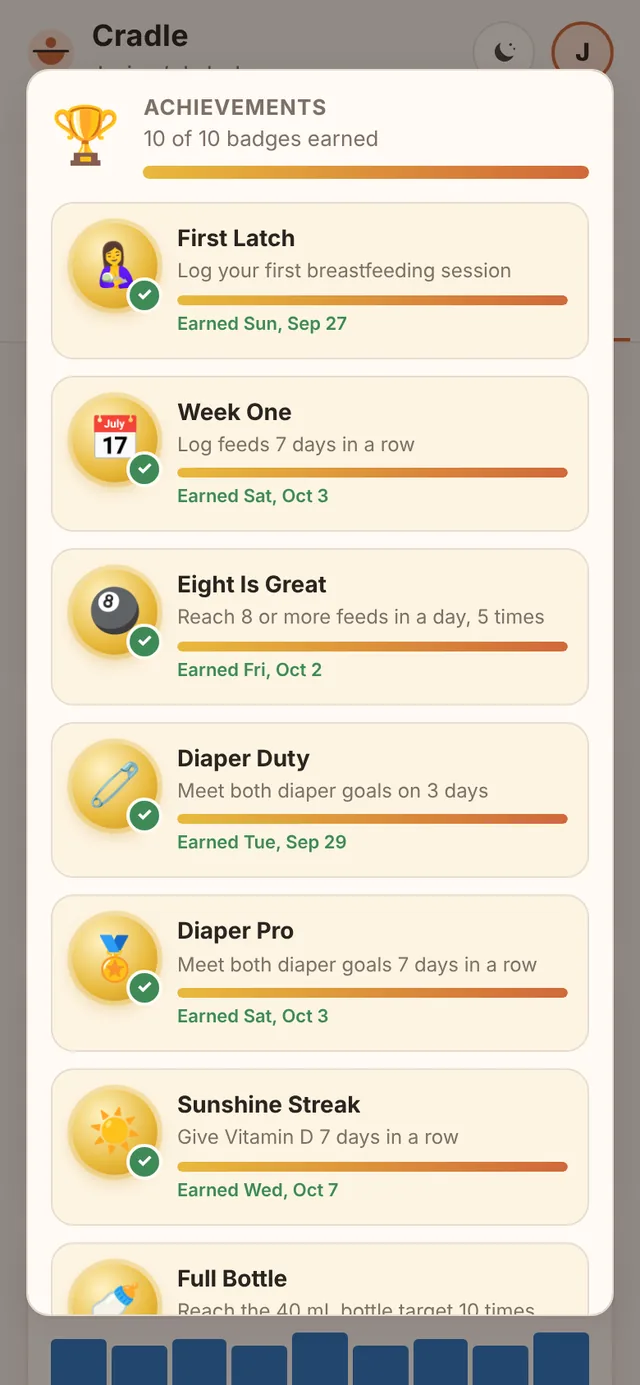
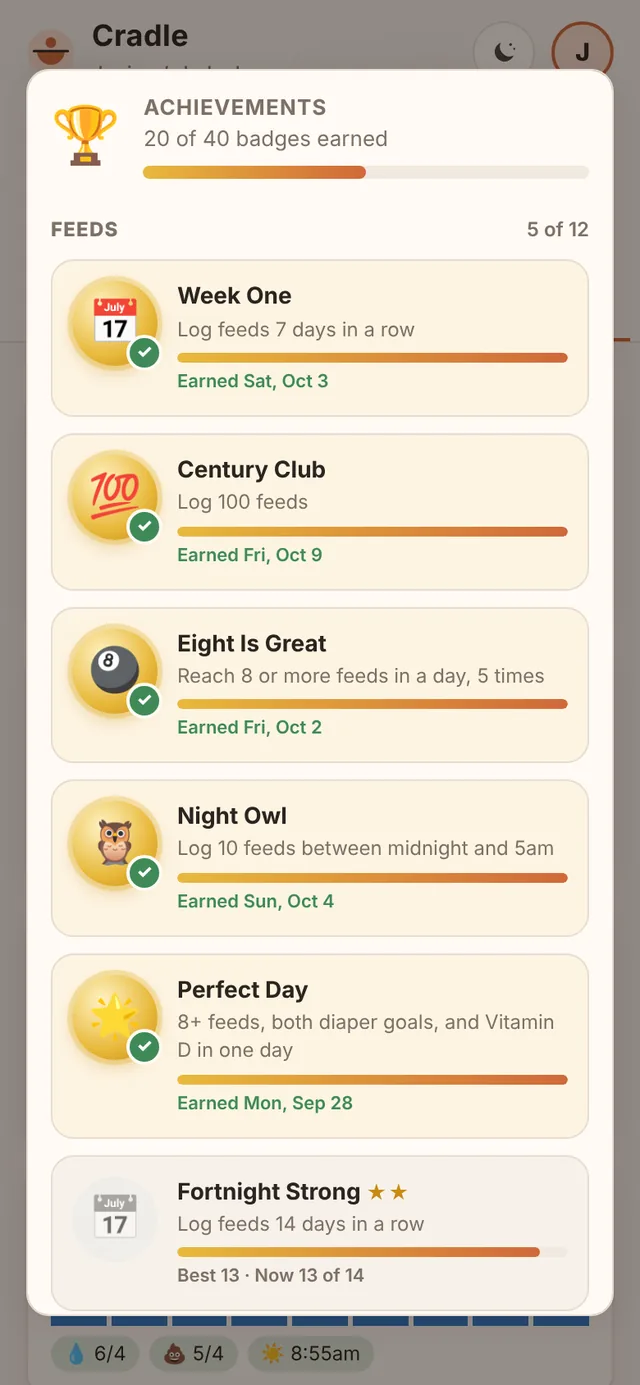
v1.15: doctor report fixes, Themes window, 40 achievements
Doctor report (audited against the log with independent code)
- Pumped averages over the days you pumped and says how many; days
  without pumping no longer count as zero
- Vitamin D counts only days since its start date (no more "10 of 9")
- Days before the birth date are left out of the table
- Nursing notes how many nursing feeds were timed when some weren't
- Daily rows were already correct
Dashboard: same pump and Vitamin D fixes

Themes
- One "Themes" item in the profile menu, showing the current theme,
  opens a window with Auto/Light/Dark and the four fun themes

Achievements: 10 -> 40
- 20 starred higher tiers of the originals (and of the new ones)
- New kinds: Century Club, Night Owl, Perfect Day, Note Taker, Liquid
  Gold, Splish Splash, Weigh In, Weighted Wonder, Back to Birth
  Weight, Two Weeks Old
- Grouped into seven topics with earned counts; existing badge ids
  are unchanged, so earned badges stay earned

Guide, About, CHANGELOG, Using Cradle, and the overview updated.

Claude-Session: https://claude.ai/code/session_01C2LP9XX3HMhgrsmSLqk1xr

Changed region(s): [[0.0625, 0.0931, 0.9375, 1.0]]

diff --git a/cradle.html b/cradle.html
@@ -120,8 +120,9 @@ nav.tabs button.on{color:var(--ink);border-color:var(--accent)}
 .dd .item{display:flex;align-items:center;gap:10px;width:100%;text-align:left;border:0;background:none;padding:8px 10px;border-radius:8px}
 .dd .item:hover{background:var(--panel2)}
 .dd .item.dim{opacity:.55}
-.tgrid{display:grid;grid-template-columns:1fr 1fr;gap:6px;margin:0 6px 6px}
-.tgrid .dalm{width:auto;margin:0;padding:7px 8px;font-size:12.5px;justify-content:flex-start}
+.tgrid{display:grid;grid-template-columns:1fr 1fr;gap:8px;margin:0}
+.tgrid .dalm{border-style:solid;width:auto;margin:0;padding:10px 12px;font-size:14px;flex-direction:column;align-items:flex-start;gap:2px;white-space:normal}
+.tgrid .dalm small{font-size:11.5px;font-weight:500;opacity:.75}
 .tnote{display:block;text-transform:none;letter-spacing:0;font-weight:500;font-size:11px;margin-top:2px}
 .dmlist{display:grid;gap:8px;margin:10px 0 4px}
 .dmi{display:flex;gap:12px;align-items:flex-start;text-align:left;width:100%;border:1px solid var(--line);background:var(--panel);border-radius:12px;padding:10px 12px}
@@ -340,6 +341,9 @@ body.night-on .toast{background:#2c2621;color:#d9c3a5}
 .ach .sub{font-size:12px}
 .ach .achbar{height:6px}
 .ach .meta{font-size:11px;color:var(--muted);margin-top:4px;font-weight:600}
+.ach .tier{color:#c98a12;font-size:12px;letter-spacing:1px}
+.achcat{grid-column:1/-1;display:flex;justify-content:space-between;align-items:baseline;margin-top:8px;font-size:12px;font-weight:800;text-transform:uppercase;letter-spacing:.6px;color:var(--muted)}
+.achcat span{font-weight:600;text-transform:none;letter-spacing:0}
 .ach.on .meta{color:var(--good)}
 .toast.gold{background:linear-gradient(90deg,#c98a12,#d0683a);color:#fff;font-weight:700}
 .achchip{margin-left:auto;font-size:11px;font-weight:700;color:var(--muted)}
@@ -610,18 +614,8 @@ body.night-on .toast{background:#2c2621;color:#d9c3a5}
       <button class="avatar" id="menuBtn" title="Profile" aria-haspopup="true"></button>
       <div class="dd" id="dd">
         <div class="ddhead"><b id="ddName">Cradle</b><span class="sub" id="ddSub">Baby log</span><div class="sub" style="margin-top:4px">☁ <span id="ddSync">Not signed in</span></div></div>
-        <div class="ddlabel">Appearance</div>
-        <div class="seg" id="themeSeg">
-          <button data-theme="auto">Auto</button><button data-theme="light">Light</button><button data-theme="dark">Dark</button>
-        </div>
-        <div class="ddlabel">Fun themes <span class="tnote">Dalmatian is experimental; the rest are seasonal</span></div>
-        <div class="tgrid">
-          <button class="dalm" data-theme="dalmatian" title="Dalmatian mode (experimental)">🐾 Dalmatian</button>
-          <button class="dalm hallo" data-theme="halloween" title="Halloween mode (seasonal)">🎃 Halloween</button>
-          <button class="dalm" data-theme="thanksgiving" title="Thanksgiving mode (seasonal)">🦃 Thanksgiving</button>
-          <button class="dalm" data-theme="christmas" title="Christmas mode (seasonal)">🎄 Christmas</button>
-        </div>
         <hr>
+        <button class="item" data-act="themes"><span>🎨</span>Themes<span class="achchip" id="themeChip"></span></button>
         <button class="item" data-act="ach"><span>🏆</span>Achievements<span class="achchip" id="achChip"></span></button>
         <button class="item" data-act="learn"><span>🎓</span>Learning center</button>
         <button class="item" data-act="fun"><span>🎮</span>Fun center</button>
@@ -817,10 +811,10 @@ body.night-on .toast{background:#2c2621;color:#d9c3a5}
       <div class="card"><div class="ico">🩺</div><h3>Doctor report</h3><p>On the Dashboard, <b>🩺 Doctor report</b> prints one page for appointments: weight against birth weight, daily feeds, nursing minutes with the left and right split, bottle and pump volumes, diapers against goals, Vitamin D, baths, weighted feeds, your day notes, and lines for questions. It covers the 7 or 14 days shown on the Dashboard.</p></div>
       <div class="card"><div class="ico">🌙</div><h3>Night shift</h3><p>Tap the <b>Night shift</b> tab for a dim, low-glare screen with huge buttons for one-handed night feeds. The three dots at the top switch colors: Warm, Moonlight, or Red. <b>Start feed</b> logs the time and starts the timer. Then tap L or R (with both on, a slider splits the time between sides), adjust the bottle by 5 mL, mark wet, stool, or Vitamin D, and tap <b>Done</b>. Everything saves as you go. Between feeds, <b>🧷 Diaper only</b> and <b>🛁 Bath</b> log those with the current time.</p></div>
       <div class="card"><div class="ico">🌌</div><h3>Calm screen</h3><p>A slow, soothing screensaver with the time, time since the last feed, and the next feed due. Open it with the moon button at the top right, next to your profile. Tap the screen to show controls: spa music, ocean, rain, or white noise, volume, and whether the clock sits in the center or the corner. The feed alarm still works here. When Cradle is installed as an app, the screen stays on while Calm or Night shift is open. Opened as a file, your phone may still turn the screen off on its own timer.</p></div>
-      <div class="card"><div class="ico">🏆</div><h3>Achievements</h3><p>Ten badges based on your goals, like Sunshine Streak for 7 days of Vitamin D and Diaper Pro for 7 days of diaper goals. Open them from the profile menu to see progress. Streaks aren’t broken by a day that isn’t over yet.</p></div>
+      <div class="card"><div class="ico">🏆</div><h3>Achievements</h3><p>Forty badges in seven groups (Feeds, Nursing, Bottle and pump, Diapers, Vitamin D, Baths, and Weight and milestones), like Sunshine Streak for 7 days of Vitamin D, Night Owl for 10 feeds between midnight and 5am, and Perfect Day. Stars mark the higher tiers of a badge. Open them from the profile menu to see progress. Streaks aren’t broken by a day that isn’t over yet.</p></div>
       <div class="card"><div class="ico">🎓</div><h3>Learning center</h3><p>In the profile menu. <b>High-contrast cards</b> are five bold black-and-white designs (Bullseye, Checkerboard, Zigzag, Spiral, and Smile) for calm, awake moments with your baby. Tap one to show it full screen, then swipe or tap the sides to change cards. <b>Invert</b> swaps black and white, and <b>Auto</b> changes cards every 10 seconds. Hold the phone about 8 to 12 inches (20 to 30 cm) away, and stop when your baby looks away or fusses. The screen stays on while a card is showing.</p></div>
       <div class="card"><div class="ico">🎮</div><h3>Fun center</h3><p>In the profile menu: <b>Bottle Catch</b>, a two-minute, one-thumb game. Drag anywhere to move the basket. Bottles are +10, golden bottles +50, and catching in a row builds up to ×4. Safety pins cost a heart (you have 3), and the pacifier slows everything for 5 seconds. It pauses by itself if you switch away or the feed alarm rings. Sound is off to start; Buzz and Sound are on the start screen. Your first posted score asks for 3 initials, which you can change on the board. <b>High scores</b> has three boards: Everyone (each person’s best across this Cradle), Our family, and My best. Only initials and scores are shown. Scores from rounds played offline post when you’re back online.</p></div>
-      <div class="card"><div class="ico">👤</div><h3>Profile menu</h3><p>The round button at the top right holds Appearance (Auto, Light, or Dark, plus fun themes: Dalmatian, Halloween, Thanksgiving, and Christmas), Achievements, Learning center, Fun center, Weights, Settings, <b>Data management</b> (export, import, print, erase all data, and sign out and remove from this phone), this Guide, About, Family, Change password, and Sign out. Settings is where you set the baby’s name, birth date, Vitamin D start date, feed interval, and goals. The moon button next to it opens Calm.</p></div>
+      <div class="card"><div class="ico">👤</div><h3>Profile menu</h3><p>The round button at the top right holds <b>Themes</b> (Auto, Light, or Dark, plus fun themes: Dalmatian, Halloween, Thanksgiving, and Christmas), Achievements, Learning center, Fun center, Weights, Settings, <b>Data management</b> (export, import, print, erase all data, and sign out and remove from this phone), this Guide, About, Family, Change password, and Sign out. Settings is where you set the baby’s name, birth date, Vitamin D start date, feed interval, and goals. The moon button next to it opens Calm.</p></div>
     </div>
     <p class="disc">This tracker is for keeping records only. Volumes, goals, and supplements should follow your pediatrician or lactation consultant. If you're worried about feeding, diapers, or weight gain, call your baby's doctor.</p>
   </section>
@@ -1061,6 +1055,26 @@ body.night-on .toast{background:#2c2621;color:#d9c3a5}
   </div>
 </div>
 
+<div class="modal" id="themeModal">
+  <div class="card">
+    <h3>Themes</h3>
+    <p class="sub" style="margin:0">Each phone keeps its own theme.</p>
+    <div class="ddlabel" style="padding-left:0;margin-top:10px">Everyday</div>
+    <div class="seg" id="themeSeg" style="margin:0">
+      <button data-theme="auto">Auto</button><button data-theme="light">Light</button><button data-theme="dark">Dark</button>
+    </div>
+    <div class="sub" style="margin-top:6px">Auto follows your phone’s light or dark setting.</div>
+    <div class="ddlabel" style="padding-left:0;margin-top:14px">Fun themes</div>
+    <div class="tgrid">
+      <button class="dalm" data-theme="dalmatian"><b>🐾 Dalmatian</b><small>Spots everywhere · Experimental</small></button>
+      <button class="dalm hallo" data-theme="halloween"><b>🎃 Halloween</b><small>Night sky and bats · Seasonal</small></button>
+      <button class="dalm" data-theme="thanksgiving"><b>🦃 Thanksgiving</b><small>Maple and leaves · Seasonal</small></button>
+      <button class="dalm" data-theme="christmas"><b>🎄 Christmas</b><small>Snow and candy cane · Seasonal</small></button>
+    </div>
+    <div class="mrow"><button class="ghost" data-close>Done</button></div>
+  </div>
+</div>
+
 <div class="modal" id="dataModal">
   <div class="card">
     <h3>Data management</h3>
@@ -1079,14 +1093,16 @@ body.night-on .toast{background:#2c2621;color:#d9c3a5}
 <div class="modal" id="aboutModal">
   <div class="card">
     <h3>About Cradle</h3>
-    <p style="margin:0 0 8px"><b>Cradle v1.14</b><br><span class="sub">A baby log that works offline and syncs between family phones through your own Supabase project. No external libraries.</span></p>
+    <p style="margin:0 0 8px"><b>Cradle v1.15</b><br><span class="sub">A baby log that works offline and syncs between family phones through your own Supabase project. No external libraries.</span></p>
     <p class="sub" style="margin:0 0 8px;padding:10px 12px;border-radius:12px;background:var(--accent-soft)"><b>Not medical advice.</b> Cradle is a notebook. Goals in the app are placeholders, so follow your pediatrician or care team, and call them if you’re worried about your baby.<br><br><b>Built with AI.</b> Cradle was built with help from Claude, an AI model by Anthropic. It has been tested but not independently reviewed, so keep backups with Export data (in Data management).</p>
     <div class="donate hidden" id="donateBox"><span style="font-size:22px">☕</span><div><b>Enjoying Cradle?</b><div class="sub">It’s free. If it helps your family, you can buy me a coffee.</div></div><a class="primary" id="donateLink" href="#" target="_blank" rel="noopener noreferrer">Buy me a coffee</a></div>
     <h3 style="margin-top:14px">Changelog</h3>
+    <b>v1.15</b>
+    <ul class="cl"><li>40 achievements (up from 10), grouped by topic: higher tiers of the originals (★★ and ★★★) and new ones like Night Owl, Perfect Day, Liquid Gold, Splish Splash, Back to Birth Weight, and One Month Old</li><li>Themes now open from one <b>🎨 Themes</b> item in the profile menu</li><li>Doctor report: pumping is averaged over the days you pumped, Vitamin D only counts days since its start date, days before birth are left out, and nursing shows how many feeds were timed</li><li>Dashboard: the same fixes for pumping and Vitamin D</li></ul>
     <b>v1.14</b>
     <ul class="cl"><li>Dashboard filters: chips under Print (All, Feeds, Bottle &amp; pump, Diapers, Vitamin D, Weight, Baths) show just that topic’s cards and insights</li><li>Cradle remembers your filter, and Print prints what’s showing</li></ul>
     <b>v1.13</b>
-    <ul class="cl"><li>🦃 Thanksgiving mode: warm cream and maple colors, falling leaves and acorns, and an acorn cap on the logo</li><li>🎄 Christmas mode: snowy white with red and evergreen, falling snowflakes, a candy-cane stripe under the header, and a Santa hat on the logo</li><li>Both are in Appearance under Fun themes, next to Halloween, and like every theme they’re just for this phone</li><li>A shorter profile menu: <b>Data management</b> holds export, import, print, erase all data, and sign out and remove from this phone. Fun themes sit in a small grid.</li><li>☕ An optional Buy me a coffee button, when your Cradle has a donation link set</li></ul>
+    <ul class="cl"><li>🦃 Thanksgiving mode: warm cream and maple colors, falling leaves and acorns, and an acorn cap on the logo</li><li>🎄 Christmas mode: snowy white with red and evergreen, falling snowflakes, a candy-cane stripe under the header, and a Santa hat on the logo</li><li>Both are in Themes, next to Halloween, and like every theme they’re just for this phone</li><li>A shorter profile menu: <b>Data management</b> holds export, import, print, erase all data, and sign out and remove from this phone. Fun themes sit in a small grid.</li><li>☕ An optional Buy me a coffee button, when your Cradle has a donation link set</li></ul>
     <b>v1.12</b>
     <ul class="cl"><li>New tagline: <b>Family baby log</b> on the splash and sign-in screens, and <b>Baby log</b> everywhere else, since Cradle works however your baby is fed</li><li>🎃 Halloween mode in Appearance, under Dalmatian: a dark night theme with bats, pumpkin orange, and a jack-o’-lantern logo. It’s just for this phone.</li></ul>
     <b>v1.11</b>
@@ -1122,7 +1138,7 @@ body.night-on .toast{background:#2c2621;color:#d9c3a5}
 <script type="application/json" id="baseData">{}</script>
 <script>
 (function(){
-const VERSION='1.14';
+const VERSION='1.15';
 const LS='cradle-feeding-v1';
 const $=s=>document.querySelector(s);
 const $$=s=>document.querySelectorAll(s);
@@ -1199,7 +1215,8 @@ function applyTheme(){
   if(t==='auto')document.documentElement.removeAttribute('data-theme');
   else document.documentElement.setAttribute('data-theme',t);
   $$('#themeSeg button').forEach(b=>b.classList.toggle('on',b.dataset.theme===t));
-  $$('#dd .dalm').forEach(b=>b.classList.toggle('on',b.dataset.theme===t));
+  $$('#themeModal .dalm').forEach(b=>b.classList.toggle('on',b.dataset.theme===t));
+  const tc=$('#themeChip');if(tc)tc.textContent={auto:'Auto',light:'Light',dark:'Dark',dalmatian:'🐾 Dalmatian',halloween:'🎃 Halloween',thanksgiving:'🦃 Thanksgiving',christmas:'🎄 Christmas'}[t]||'';
 }
 function renderProfile(){
   const n=babyName();
@@ -1212,14 +1229,15 @@ function renderProfile(){
 $('#menuBtn').onclick=e=>{e.stopPropagation();$('#menu').classList.toggle('open')};
 document.addEventListener('click',e=>{if(!e.target.closest('#menu'))$('#menu').classList.remove('open')});
 $('#dd').addEventListener('click',e=>{
-  const tb=e.target.closest('#dd [data-theme]');
-  if(tb){S.settings.theme=tb.dataset.theme;applyTheme();save();if(tab==='dash')renderDash();const hi={halloween:'🎃 Happy Halloween!',thanksgiving:'🦃 Happy Thanksgiving!',christmas:'🎄 Merry Christmas!'}[tb.dataset.theme];if(hi)toast(hi+' Switch back anytime under Appearance.');return}
   const a=e.target.closest('[data-act]');if(!a)return;$('#menu').classList.remove('open');
   ACTS[a.dataset.act]();
 });
 const ACTS={settings:openSettings,export:openExport,import:openImport,erase:eraseAll,ach:openAch,print:printTab,
-    data:()=>$('#dataModal').classList.add('open'),donate:()=>{const u=donateUrl();if(u)window.open(u,'_blank','noopener')},
+    data:()=>$('#dataModal').classList.add('open'),themes:()=>{applyTheme();$('#themeModal').classList.add('open')},donate:()=>{const u=donateUrl();if(u)window.open(u,'_blank','noopener')},
     help:()=>{tab='guide';renderAll();scrollTo(0,0)},about:()=>$('#aboutModal').classList.add('open'),install:doInstall,learn:openLearn,fun:openFun,family:openFamily,password:openPassword,signout:async()=>{if(await ask('Sign out of Cradle on this phone? Your log stays saved in your account, and stays on this phone until someone signs in. To clear it from this phone too, use Sign out and remove from this phone.','Sign out'))clSignOut()},wipe:signOutWipe};
+$('#themeModal').addEventListener('click',e=>{const tb=e.target.closest('[data-theme]');if(!tb)return;
+  S.settings.theme=tb.dataset.theme;applyTheme();save();if(tab==='dash')renderDash();
+  const hi={halloween:'🎃 Happy Halloween!',thanksgiving:'🦃 Happy Thanksgiving!',christmas:'🎄 Merry Christmas!'}[tb.dataset.theme];if(hi)toast(hi+' Switch back anytime in Themes.')});
 $('#dataModal').addEventListener('click',e=>{const b=e.target.closest('[data-dm]');if(!b)return;$('#dataModal').classList.remove('open');ACTS[b.dataset.dm]()});
 // Optional donation link, baked in at build time from CRADLE_DONATE_URL
 function donateUrl(){try{const u=(JSON.parse(document.getElementById('siteConfig').textContent)||{}).donate||'';return /^https:\/\/[^\s"<>]+$/.test(u)?u:''}catch(e){return ''}}
@@ -1556,12 +1574,12 @@ function renderDash(){
   const todayK=key(new Date()),todayX=L.find(x=>x.k===todayK&&x.t.n>0),done=logged.filter(x=>x.k!==todayK),base=done.length?done:logged;
   const ld=base.length||1,allFeeds=logged.flatMap(x=>x.d.feeds.filter(isFeed)),baseFeeds=base.flatMap(x=>x.d.feeds.filter(isFeed)),totBd=base.reduce((t,x)=>t+x.t.bottle,0);
   const dl=done.length?'completed day'+(done.length>1?'s':''):'day so far';
-  const bottled=allFeeds.filter(f=>num(f.bottle)!=null),totB=logged.reduce((t,x)=>t+x.t.bottle,0),pDays=logged.filter(x=>x.d.feeds.some(f=>num(f.pump)!=null)),totP=pDays.reduce((t,x)=>t+x.t.pump,0),totBp=pDays.reduce((t,x)=>t+x.t.bottle,0);
+  const bottled=allFeeds.filter(f=>num(f.bottle)!=null),totB=logged.reduce((t,x)=>t+x.t.bottle,0),pDays=base.filter(x=>x.d.feeds.some(f=>num(f.pump)!=null)),totP=pDays.reduce((t,x)=>t+x.t.pump,0),totBp=pDays.reduce((t,x)=>t+x.t.bottle,0);
   const hit=bottled.filter(f=>num(f.bottle)>=st.target).length;
   const gaps=L.flatMap(x=>per[x.k]),avgGap=gaps.length?gaps.reduce((t,y)=>t+y.g,0)/gaps.length:0;
   let longest=null;L.forEach(x=>per[x.k].forEach(y=>{if(!longest||y.g>longest.g)longest={...y,dt:x.dt}}));
   const wetMet=done.filter(x=>x.t.wet>=x.g.wet).length,stoolMet=done.filter(x=>x.t.stool>=x.g.stool).length;
-  const vitDays=L.filter(x=>x.v.given).length,vDue=L.filter(x=>vitDue(x.k)&&(x.k!==todayK||x.v.given)).length;
+  const vitDays=L.filter(x=>x.v.given&&vitDue(x.k)).length,vDue=L.filter(x=>vitDue(x.k)&&(x.k!==todayK||x.v.given)).length;
   let streak=0;for(let i=n-1;i>=0;i--){if(!vitDue(L[i].k))break;if(L[i].v.given)streak++;else if(!(i===n-1&&L[i].k===key(new Date())))break}
   const vtimes=L.filter(x=>x.v.time).map(x=>{const[h,m]=x.v.time.split(':').map(Number);return h*60+m}).sort((a,b)=>a-b);
   const usual=vtimes.length>=3?vtimes[Math.floor(vtimes.length/2)]:null;
@@ -2108,7 +2126,9 @@ setInterval(checkAlarm,15000);
 /* ================= Doctor report ================= */
 let printMode=null;
 function buildReport(){
-  const L=rangeDays(),st=S.settings,ws=weightStats(),g0=goals(key(new Date()));
+  const L0=rangeDays(),st=S.settings,ws=weightStats(),g0=goals(key(new Date()));
+  // skip days before the birth date when the range reaches back that far
+  const L=st.birthDate&&L0.some(x=>x.k>=st.birthDate)?L0.filter(x=>x.k>=st.birthDate):L0;
   const rows=L.map(x=>{const y=dayDetail(x.k),nm=y.fs.reduce((a,f)=>a+(num(f.mins)||0),0);return {x,y,nm}});
   const done=rows.filter(r=>r.y.t.n>0&&!tdy(r.x.k)),nd=done.length||1;
   const avg=f=>done.length?(done.reduce((a,r)=>a+f(r),0)/nd):0;
@@ -2123,7 +2143,7 @@ function buildReport(){
   <h3 style="margin:12px 0 4px;font-size:14px">Weight</h3>
   ${ws?`<div>Birth: <b>${ws.bw>0?fmtW(ws.bw):'not set'}</b> · Latest: <b>${fmtW(ws.latest.g)}</b> (${dlong(parseK(ws.latest.date))}, ${ws.latest.src})${ws.pct!=null?' · <b>'+(ws.pct>=0?'+':'')+ws.pct.toFixed(1)+'%</b> vs birth':''}${ws.lowest?' · Lowest: '+fmtW(ws.lowest.g)+(ws.lowPct!=null?' ('+ws.lowPct.toFixed(1)+'%)':''):''}${ws.bw>0?' · Back to birth weight: <b>'+(ws.back?dlong(parseK(ws.back.date)):'not yet')+'</b>':''}${ws.rate!=null?' · Gain since lowest: '+fmtDW(ws.rate)+'/day':''}</div>`:'<div style="color:#555">No weights logged.</div>'}
   <h3 style="margin:12px 0 4px;font-size:14px">Averages over ${done.length} completed day${done.length===1?'':'s'}</h3>
-  <div>Feeds/day: <b>${avg(r=>r.y.t.n).toFixed(1)}</b> · Nursing: <b>${Math.round(avg(r=>r.nm))} min/day</b>${(()=>{const st=sideTotals(done.flatMap(r=>r.y.fs)),tt=st.L+st.R;return tt?' (left '+Math.round(st.L/tt*100)+'%, right '+(100-Math.round(st.L/tt*100))+'%)':''})()} · Bottle: <b>${Math.round(avg(r=>r.y.t.bottle))} mL/day</b> · Pumped: <b>${rows.some(r=>r.y.d.feeds.some(f=>num(f.pump)!=null))?Math.round(avg(r=>r.y.t.pump))+' mL/day':'not tracked'}</b> · Wet/day: <b>${avg(r=>r.y.t.wet).toFixed(1)}</b> · Stool/day: <b>${avg(r=>r.y.t.stool).toFixed(1)}</b> · Vitamin D: <b>${L.filter(x=>x.v.given).length} of ${L.filter(x=>vitDue(x.k)&&(!tdy(x.k)||x.v.given)).length} days</b> · Baths: <b>${(()=>{const c=L.reduce((a,x)=>a+bathsOf(x.d).length,0),lb=lastBath(L[L.length-1].k);return c+(lb?', last '+dlong(parseK(lb.k))+' ('+bathName(lb.f).toLowerCase()+')':'')})()}</b></div>
+  <div>Feeds/day: <b>${avg(r=>r.y.t.n).toFixed(1)}</b> · Nursing: <b>${Math.round(avg(r=>r.nm))} min/day</b>${(()=>{const st=sideTotals(done.flatMap(r=>r.y.fs)),tt=st.L+st.R;return tt?' (left '+Math.round(st.L/tt*100)+'%, right '+(100-Math.round(st.L/tt*100))+'%)':''})()}${(()=>{const fs=done.flatMap(r=>r.y.fs),nur=fs.filter(f=>f.left||f.right||num(f.mins)>0),tm=nur.filter(f=>num(f.mins)>0).length;return nur.length&&tm<nur.length?', timed on '+tm+' of '+nur.length+' nursing feeds':''})()} · Bottle: <b>${Math.round(avg(r=>r.y.t.bottle))} mL/day</b> · Pumped: <b>${(()=>{const pd=done.filter(r=>r.y.d.feeds.some(f=>num(f.pump)!=null));return pd.length?Math.round(pd.reduce((a,r)=>a+r.y.t.pump,0)/pd.length)+' mL/day</b> ('+(pd.length===done.length?'every day':'on '+pd.length+' day'+(pd.length>1?'s':'')+' with pumping')+')<b>':'not tracked'})()}</b> · Wet/day: <b>${avg(r=>r.y.t.wet).toFixed(1)}</b> · Stool/day: <b>${avg(r=>r.y.t.stool).toFixed(1)}</b> · Vitamin D: <b>${L.filter(x=>x.v.given&&vitDue(x.k)&&(!tdy(x.k)||x.v.given)).length} of ${L.filter(x=>vitDue(x.k)&&(!tdy(x.k)||x.v.given)).length} days</b> · Baths: <b>${(()=>{const c=L.reduce((a,x)=>a+bathsOf(x.d).length,0),lb=lastBath(L[L.length-1].k);return c+(lb?', last '+dlong(parseK(lb.k))+' ('+bathName(lb.f).toLowerCase()+')':'')})()}</b></div>
   <table style="width:100%;border-collapse:collapse;margin-top:10px"><tr><th ${th}>Date</th><th ${th}>Day</th><th ${th}>Feeds</th><th ${th}>Nursing min</th><th ${th}>Bottle mL</th><th ${th}>Pump mL</th><th ${th}>Wet / goal</th><th ${th}>Stool / goal</th><th ${th}>Vit D</th><th ${th}>Bath</th><th ${th}>Longest gap</th></tr>
   ${rows.map(({x,y,nm})=>`<tr><td ${td.replace('right','left')}>${dlong(x.dt)}${tdy(x.k)?' (so far)':''}</td><td ${td}>${y.g.dol!=null&&y.g.dol>=0?y.g.dol:''}</td><td ${td}>${y.t.n}</td><td ${td}>${nm||''}</td><td ${td}>${Math.round(y.t.bottle)}</td><td ${td}>${y.d.feeds.some(f=>num(f.pump)!=null)?Math.round(y.t.pump):''}</td><td ${td}>${y.t.wet} / ${y.g.wet}</td><td ${td}>${y.t.stool} / ${y.g.stool}</td><td ${td.replace('right','center')}>${y.v.given?'✓'+(y.v.time?' '+fmt12(y.v.time):''):vitDue(x.k)?'':'n/a'}</td><td ${td.replace('right','center')}>${bathsOf(y.d).map(f=>f.bath==='sponge'?'Sponge':f.bath==='tub'?'Tub':'✓').join(', ')}</td><td ${td}>${y.lg?hm(y.lg):''}</td></tr>`).join('')}</table>
   ${wfs.length?`<h3 style="margin:12px 0 4px;font-size:14px">Weighted feeds</h3><table style="border-collapse:collapse"><tr><th ${th}>Date</th><th ${th}>Time</th><th ${th}>Breast</th><th ${th}>Before</th><th ${th}>After</th><th ${th}>Transfer</th></tr>${wfs.map(({k,f})=>`<tr><td ${td.replace('right','left')}>${dlong(parseK(k))}</td><td ${td}>${fmt12(f.time)}</td><td ${td}>${[f.left?'L':'',f.right?'R':''].filter(Boolean).join('+')}${f.mins?' '+f.mins+' min':''}</td><td ${td}>${f.wPre?fmtW(f.wPre):''}</td><td ${td}>${f.wPost?fmtW(f.wPost):''}</td><td ${td}>${num(f.wPre)>0&&num(f.wPost)>0?Math.round(f.wPost-f.wPre)+' mL':''}</td></tr>`).join('')}</table>`:''}
@@ -2903,43 +2923,94 @@ $('#funPlay').onclick=gOpen;
 $('#funScores').onclick=()=>{gOpen();gPrev='start';gState='board';gPanel()};
 
 /* Achievements */
+// kind: count (cumulative), max (best single value), streak (days in a row), date (a one-time moment)
 const ACH=[
-  {id:'latch',icon:'🤱',name:'First Latch',desc:'Log your first breastfeeding session',goal:1},
-  {id:'week',icon:'📅',name:'Week One',desc:'Log feeds 7 days in a row',goal:7,streak:true},
-  {id:'eight',icon:'🎱',name:'Eight Is Great',desc:'Reach 8 or more feeds in a day, 5 times',goal:5},
-  {id:'duty',icon:'🧷',name:'Diaper Duty',desc:'Meet both diaper goals on 3 days',goal:3},
-  {id:'pro',icon:'🏅',name:'Diaper Pro',desc:'Meet both diaper goals 7 days in a row',goal:7,streak:true},
-  {id:'sun',icon:'☀',name:'Sunshine Streak',desc:'Give Vitamin D 7 days in a row',goal:7,streak:true},
-  {id:'full',icon:'🍼',name:'Full Bottle',desc:'Reach the bottle target 10 times',goal:10},
-  {id:'big',icon:'🥛',name:'Big Day',desc:'Give 300 mL of bottle in one day',goal:300,unit:'mL'},
-  {id:'pump',icon:'⚡',name:'Pump It Up',desc:'Log pump output 10 times',goal:10},
-  {id:'switch',icon:'🔄',name:'Side Switcher',desc:'Alternate the starting side 10 feeds in a row',goal:10},
+  // Feeds
+  {id:'week',cat:'feeds',icon:'📅',name:'Week One',desc:'Log feeds 7 days in a row',goal:7,m:'logged',kind:'streak'},
+  {id:'week14',cat:'feeds',tier:2,icon:'📅',name:'Fortnight Strong',desc:'Log feeds 14 days in a row',goal:14,m:'logged',kind:'streak'},
+  {id:'week30',cat:'feeds',tier:3,icon:'📅',name:'Month of Feeds',desc:'Log feeds 30 days in a row',goal:30,m:'logged',kind:'streak'},
+  {id:'century',cat:'feeds',icon:'💯',name:'Century Club',desc:'Log 100 feeds',goal:100,m:'feeds',kind:'count'},
+  {id:'feeds500',cat:'feeds',tier:2,icon:'💯',name:'Feed Machine',desc:'Log 500 feeds',goal:500,m:'feeds',kind:'count'},
+  {id:'feeds1000',cat:'feeds',tier:3,icon:'💯',name:'One Thousand Feeds',desc:'Log 1,000 feeds',goal:1000,m:'feeds',kind:'count'},
+  {id:'eight',cat:'feeds',icon:'🎱',name:'Eight Is Great',desc:'Reach 8 or more feeds in a day, 5 times',goal:5,m:'eightDays',kind:'count'},
+  {id:'eight20',cat:'feeds',tier:2,icon:'🎱',name:'Clockwork',desc:'Reach 8 or more feeds in a day, 20 times',goal:20,m:'eightDays',kind:'count'},
+  {id:'owl',cat:'feeds',icon:'🦉',name:'Night Owl',desc:'Log 10 feeds between midnight and 5am',goal:10,m:'owl',kind:'count'},
+  {id:'perfect',cat:'feeds',icon:'🌟',name:'Perfect Day',desc:'8+ feeds, both diaper goals, and Vitamin D in one day',goal:1,m:'perfectDays',kind:'count'},
+  {id:'perfectwk',cat:'feeds',tier:2,icon:'🌟',name:'Perfect Week',desc:'A perfect day 7 days in a row',goal:7,m:'perfect',kind:'streak'},
+  {id:'notes',cat:'feeds',icon:'📝',name:'Note Taker',desc:'Write day notes on 5 days',goal:5,m:'notes',kind:'count'},
+  // Nursing
+  {id:'latch',cat:'nursing',icon:'🤱',name:'First Latch',desc:'Log your first breastfeeding session',goal:1,m:'nurse',kind:'count'},
+  {id:'latch50',cat:'nursing',tier:2,icon:'🤱',name:'Nursing Natural',desc:'Log 50 breastfeeding sessions',goal:50,m:'nurse',kind:'count'},
+  {id:'switch',cat:'nursing',icon:'🔄',name:'Side Switcher',desc:'Alternate the starting side 10 feeds in a row',goal:10,m:'switchRun',kind:'max'},
+  {id:'switch25',cat:'nursing',tier:2,icon:'🔄',name:'Switch Master',desc:'Alternate the starting side 25 feeds in a row',goal:25,m:'switchRun',kind:'max'},
+  // Bottle and pump
+  {id:'full',cat:'bottle',icon:'🍼',name:'Full Bottle',desc:'Reach the bottle target 10 times',goal:10,m:'full',kind:'count'},
+  {id:'full50',cat:'bottle',tier:2,icon:'🍼',name:'Bottle Boss',desc:'Reach the bottle target 50 times',goal:50,m:'full',kind:'count'},
+  {id:'full150',cat:'bottle',tier:3,icon:'🍼',name:'Bottle Legend',desc:'Reach the bottle target 150 times',goal:150,m:'full',kind:'count'},
+  {id:'big',cat:'bottle',icon:'🥛',name:'Big Day',desc:'Give 300 mL of bottle in one day',goal:300,unit:'mL',m:'bigBottle',kind:'max'},
+  {id:'big400',cat:'bottle',tier:2,icon:'🥛',name:'Bigger Day',desc:'Give 400 mL of bottle in one day',goal:400,unit:'mL',m:'bigBottle',kind:'max'},
+  {id:'big500',cat:'bottle',tier:3,icon:'🥛',name:'Biggest Day',desc:'Give 500 mL of bottle in one day',goal:500,unit:'mL',m:'bigBottle',kind:'max'},
+  {id:'pump',cat:'bottle',icon:'⚡',name:'Pump It Up',desc:'Log pump output 10 times',goal:10,m:'pump',kind:'count'},
+  {id:'pump50',cat:'bottle',tier:2,icon:'⚡',name:'Pump Pro',desc:'Log pump output 50 times',goal:50,m:'pump',kind:'count'},
+  {id:'gold',cat:'bottle',icon:'🫙',name:'Liquid Gold',desc:'Pump 5 liters in total',goal:5000,unit:'mL',m:'pumpML',kind:'count'},
+  // Diapers
+  {id:'duty',cat:'diapers',icon:'🧷',name:'Diaper Duty',desc:'Meet both diaper goals on 3 days',goal:3,m:'dutyDays',kind:'count'},
+  {id:'duty14',cat:'diapers',tier:2,icon:'🧷',name:'Diaper Dynamo',desc:'Meet both diaper goals on 14 days',goal:14,m:'dutyDays',kind:'count'},
+  {id:'duty30',cat:'diapers',tier:3,icon:'🧷',name:'Diaper Legend',desc:'Meet both diaper goals on 30 days',goal:30,m:'dutyDays',kind:'count'},
+  {id:'pro',cat:'diapers',icon:'🏅',name:'Diaper Pro',desc:'Meet both diaper goals 7 days in a row',goal:7,m:'met',kind:'streak'},
+  {id:'pro14',cat:'diapers',tier:2,icon:'🏅',name:'Diaper Master',desc:'Meet both diaper goals 14 days in a row',goal:14,m:'met',kind:'streak'},
+  // Vitamin D
+  {id:'sun',cat:'vitd',icon:'☀',name:'Sunshine Streak',desc:'Give Vitamin D 7 days in a row',goal:7,m:'vitd',kind:'streak'},
+  {id:'sun14',cat:'vitd',tier:2,icon:'☀',name:'Vitamin D Devotee',desc:'Give Vitamin D 14 days in a row',goal:14,m:'vitd',kind:'streak'},
+  {id:'sun30',cat:'vitd',tier:3,icon:'☀',name:'Sunshine Superstar',desc:'Give Vitamin D 30 days in a row',goal:30,m:'vitd',kind:'streak'},
+  // Baths
+  {id:'splash',cat:'baths',icon:'🛁',name:'Splish Splash',desc:'Log the first bath',goal:1,m:'baths',kind:'count'},
+  {id:'baths10',cat:'baths',tier:2,icon:'🛁',name:'Bath Buddy',desc:'Log 10 baths',goal:10,m:'baths',kind:'count'},
+  // Weight and milestones
+  {id:'weighin',cat:'growth',icon:'⚖',name:'Weigh In',desc:'Log the first weight',goal:1,m:'weighin',kind:'date'},
+  {id:'weighted',cat:'growth',icon:'🔬',name:'Weighted Wonder',desc:'Do 5 weighted feeds',goal:5,m:'weighted',kind:'count'},
+  {id:'backbirth',cat:'growth',icon:'🎉',name:'Back to Birth Weight',desc:'Get back to the birth weight',goal:1,m:'backbirth',kind:'date'},
+  {id:'twoweeks',cat:'growth',icon:'🎂',name:'Two Weeks Old',desc:'Your baby turns two weeks old',goal:14,unit:'days',m:'age',kind:'date'},
+  {id:'onemonth',cat:'growth',tier:2,icon:'🎂',name:'One Month Old',desc:'Your baby turns one month old',goal:30,unit:'days',m:'age',kind:'date'},
 ];
+const ACH_CATS=[['feeds','Feeds'],['nursing','Nursing'],['bottle','Bottle and pump'],['diapers','Diapers'],['vitd','Vitamin D'],['baths','Baths'],['growth','Weight and milestones']];
 function computeAch(){
-  const st=S.settings,ks=Object.keys(S.days).filter(k=>S.days[k].feeds.length).sort();
+  const st=S.settings,ks=Object.keys(S.days).filter(k=>S.days[k].feeds.length||S.days[k].notes).sort();
   const P={};ACH.forEach(a=>P[a.id]={val:0,best:0,cur:0,at:null});
-  const hit=(id,k)=>{const p=P[id],a=ACH.find(x=>x.id===id);if(!p.at&&(a.streak?p.best:p.val)>=a.goal)p.at=k};
-  if(!ks.length)return P;
-  const today=key(new Date()),end=ks[ks.length-1]>today?ks[ks.length-1]:today;
-  let lastStart='',run=0;
-  for(let dt=parseK(ks[0]);key(dt)<=end;dt=addDays(dt,1)){
-    const k=key(dt),d=peek(k),fs=d.feeds.filter(isFeed),t=totals(d),g=goals(k),isToday=k===today;
-    const streak=(id,ok)=>{const p=P[id];if(ok){p.cur++;p.best=Math.max(p.best,p.cur)}else if(!isToday)p.cur=0;hit(id,k)};
-    // per-feed
-    fs.forEach(f=>{
-      if(f.left||f.right){P.latch.val++;hit('latch',k)}
-      if(num(f.bottle)!=null&&num(f.bottle)>=st.target){P.full.val++;hit('full',k)}
-      if(num(f.pump)!=null&&num(f.pump)>0){P.pump.val++;hit('pump',k)}
-      if(f.start){run=(lastStart&&f.start!==lastStart)?run+1:1;lastStart=f.start;P.switch.val=Math.max(P.switch.val,run);hit('switch',k)}
-    });
-    streak('week',fs.length>0);
-    if(fs.length>=8){P.eight.val++;hit('eight',k)}
-    const met=fs.length>0&&t.wet>=g.wet&&t.stool>=g.stool;
-    if(met){P.duty.val++;hit('duty',k)}
-    streak('pro',met);
-    streak('sun',vitGiven(d).given);
-    P.big.val=Math.max(P.big.val,Math.round(t.bottle));hit('big',k);
+  const today=key(new Date());
+  const M={feeds:0,nurse:0,full:0,pump:0,pumpML:0,eightDays:0,dutyDays:0,owl:0,baths:0,weighted:0,notes:0,perfectDays:0,bigBottle:0,switchRun:0};
+  const Sk={};['logged','met','vitd','perfect'].forEach(x=>Sk[x]={cur:0,best:0});
+  const upd=k=>ACH.forEach(a=>{const p=P[a.id];if(a.kind==='count'||a.kind==='max'){p.val=M[a.m]}else if(a.kind==='streak'){p.cur=Sk[a.m].cur;p.best=Sk[a.m].best;p.val=p.best}
+    if(!p.at&&a.kind!=='date'&&p.val>=a.goal)p.at=k});
+  if(ks.length){
+    const end=ks[ks.length-1]>today?ks[ks.length-1]:today;let lastStart='',run=0;
+    for(let dt=parseK(ks[0]);key(dt)<=end;dt=addDays(dt,1)){
+      const k=key(dt),d=peek(k),fs=d.feeds.filter(isFeed),t=totals(d),g=goals(k),isToday=k===today;
+      fs.forEach(f=>{M.feeds++;
+        if(f.left||f.right)M.nurse++;
+        if(num(f.bottle)!=null&&num(f.bottle)>=st.target)M.full++;
+        if(num(f.pump)!=null&&num(f.pump)>0){M.pump++;M.pumpML+=num(f.pump)}
+        if(f.wf&&num(f.wPre)>0&&num(f.wPost)>0)M.weighted++;
+        if(f.time&&f.time<'05:00')M.owl++;
+        if(f.start){run=(lastStart&&f.start!==lastStart)?run+1:1;lastStart=f.start;M.switchRun=Math.max(M.switchRun,run)}
+        upd(k)});
+      M.baths+=bathsOf(d).length;if(d.notes&&String(d.notes).trim())M.notes++;
+      if(fs.length>=8)M.eightDays++;
+      const met=fs.length>0&&t.wet>=g.wet&&t.stool>=g.stool,vit=vitGiven(d).given,perfect=fs.length>=8&&met&&(vit||!vitDue(k));
+      if(met)M.dutyDays++;if(perfect)M.perfectDays++;
+      M.bigBottle=Math.max(M.bigBottle,Math.round(t.bottle));
+      const sk=(x,ok)=>{const s=Sk[x];if(ok){s.cur++;s.best=Math.max(s.best,s.cur)}else if(!isToday)s.cur=0};
+      sk('logged',fs.length>0);sk('met',met);sk('vitd',vit);sk('perfect',perfect);
+      upd(k);
+    }
   }
+  // one-time moments
+  const W=allWeights().filter(w=>w.kind!=='birth');
+  const ws=weightStats();
+  ACH.filter(a=>a.kind==='date').forEach(a=>{const p=P[a.id];
+    if(a.m==='weighin'){p.val=W.length?1:0;p.at=W.length?W[0].date:null}
+    else if(a.m==='backbirth'){p.val=ws&&ws.back?1:0;p.at=ws&&ws.back?ws.back.date:null}
+    else if(a.m==='age'){const dol=st.birthDate?Math.round((parseK(today)-parseK(st.birthDate))/864e5):0;p.val=Math.max(0,dol);p.at=st.birthDate&&dol>=a.goal?key(addDays(parseK(st.birthDate),a.goal)):null}});
   return P;
 }
 function achUnlocked(P){return ACH.filter(a=>P[a.id].at).map(a=>a.id)}
@@ -2948,11 +3019,12 @@ function openAch(){
   const P=computeAch(),n=achUnlocked(P).length;
   $('#achSum').textContent=`${n} of ${ACH.length} badges earned`;
   $('#achFill').style.width=(n/ACH.length*100)+'%';
-  const order=[...ACH].sort((a,b)=>(!!P[b.id].at)-(!!P[a.id].at));
-  $('#achGrid').innerHTML=order.map(a=>{const p=P[a.id],on=!!p.at;
-    const v=a.streak?p.best:p.val,pct=Math.min(100,v/a.goal*100);
-    const meta=on?'Earned '+dlong(parseK(p.at)):a.streak?`Best ${p.best} · Now ${p.cur} of ${a.goal}`:`${Math.min(v,a.goal)}${a.unit?' '+a.unit:''} of ${a.goal}${a.unit?' '+a.unit:''}`;
-    return `<div class="ach ${on?'on':''}"><div class="badge">${a.icon}</div><div style="flex:1;min-width:0"><b>${a.name}</b><div class="sub">${a.desc.replace('the bottle target','the '+S.settings.target+' mL bottle target')}</div><div class="achbar"><i style="width:${on?100:pct}%"></i></div><div class="meta">${meta}</div></div></div>`}).join('');
+  const card=a=>{const p=P[a.id],on=!!p.at;
+    const v=a.kind==='streak'?p.best:p.val,pct=Math.min(100,v/a.goal*100);
+    const meta=on?'Earned '+dlong(parseK(p.at)):a.kind==='streak'?`Best ${p.best} · Now ${p.cur} of ${a.goal}`:a.m==='age'?(S.settings.birthDate?`Day ${v} of ${a.goal}`:'Add the birth date in Settings'):a.m==='backbirth'?(num(S.settings.birthWeight)>0?'Not yet':'Add the birth weight in Settings'):`${Math.min(v,a.goal).toLocaleString()}${a.unit?' '+a.unit:''} of ${a.goal.toLocaleString()}${a.unit?' '+a.unit:''}`;
+    return `<div class="ach ${on?'on':''}"><div class="badge">${a.icon}</div><div style="flex:1;min-width:0"><b>${a.name}${a.tier?` <span class="tier" title="Tier ${a.tier}">${'★'.repeat(a.tier)}</span>`:''}</b><div class="sub">${a.desc.replace('the bottle target','the '+S.settings.target+' mL bottle target')}</div><div class="achbar"><i style="width:${on?100:pct}%"></i></div><div class="meta">${meta}</div></div></div>`};
+  $('#achGrid').innerHTML=ACH_CATS.map(([c,label])=>{const list=ACH.filter(a=>a.cat===c),got=list.filter(a=>P[a.id].at).length;
+    return `<div class="achcat">${label}<span>${got} of ${list.length}</span></div>`+[...list].sort((a,b)=>(!!P[b.id].at)-(!!P[a.id].at)).map(card).join('')}).join('');
   $('#achModal').classList.add('open');
 }
 function checkAch(){

diff --git a/docs/overview.html b/docs/overview.html
@@ -281,7 +281,7 @@ footer code{font-family:var(--mono); font-size:13px}
     <figure><div class="phone"><img src="screenshots/zoom.webp" alt="An enlarged dashboard chart with the details of one feed"></div><figcaption class="cap"><b>Tap any chart</b>Enlarge it, then tap a day or a single feed for the details.</figcaption></figure>
     <figure><div class="phone"><img src="screenshots/game.webp" alt="Bottle Catch: a basket at the bottom catching falling bottles while dodging safety pins"></div><figcaption class="cap"><b>Fun center</b>Bottle Catch: two minutes, one thumb, and arcade-style high scores with your initials.</figcaption></figure>
     <figure><div class="phone"><img src="screenshots/hist.webp" alt="History tab with a card for each day"></div><figcaption class="cap"><b>History</b>Every day as a card or a table, with diaper goals checked off.</figcaption></figure>
-    <figure><div class="phone"><img src="screenshots/ach.webp" alt="Achievements list with earned badges"></div><figcaption class="cap"><b>Achievements</b>Ten badges, like a 7-day Vitamin D streak. A day in progress never breaks one.</figcaption></figure>
+    <figure><div class="phone"><img src="screenshots/ach.webp" alt="Achievements list with earned badges"></div><figcaption class="cap"><b>Achievements</b>Forty badges in seven groups, with starred higher tiers. A day in progress never breaks a streak.</figcaption></figure>
     <figure><div class="phone"><img src="screenshots/bath.webp" alt="A bath row on the Log with Sponge and Tub choices"></div><figcaption class="cap"><b>Bath time</b>Sponge or tub, with a note. Baths never count as feeds, and the Dashboard shows when the last one was.</figcaption></figure>
     <figure><div class="phone"><img src="screenshots/hc.webp" alt="A full-screen black-and-white spiral card from the Learning center"></div><figcaption class="cap"><b>Learning center</b>High-contrast cards to show your baby during calm, awake moments.</figcaption></figure>
   </div>
@@ -441,7 +441,7 @@ footer code{font-family:var(--mono); font-size:13px}
 
 <footer>
   <div class="wrap">
-    <span><b style="color:var(--ink)">Cradle v1.14</b> · PolyForm Noncommercial 1.0.0 · Screenshots show example data for a made-up baby.</span>
+    <span><b style="color:var(--ink)">Cradle v1.15</b> · PolyForm Noncommercial 1.0.0 · Screenshots show example data for a made-up baby.</span>
     <span>Source and setup guide: <a href="https://github.com/skboyce28/Cradle">github.com/skboyce28/Cradle</a></span>
   </div>
 </footer>

diff --git a/docs/using-cradle.md b/docs/using-cradle.md
@@ -162,12 +162,12 @@ The round button at the top right:
 
 | Item | What it does |
 |---|---|
-| **Appearance** | Auto, Light, or Dark, plus **Fun themes**: Dalmatian (experimental) and three seasonal themes:<br>🎃 **Halloween**: a dark night theme with bats and a jack-o'-lantern logo<br>🦃 **Thanksgiving**: warm cream and maple with falling leaves, and an acorn cap on the logo<br>🎄 **Christmas**: snowy white with red and evergreen, snowflakes, a candy-cane stripe, and a Santa hat on the logo<br>The theme is per phone. |
+| **🎨 Themes** | Opens a window with Auto, Light, or Dark, plus **Fun themes**: Dalmatian (experimental) and three seasonal themes:<br>🎃 **Halloween**: a dark night theme with bats and a jack-o'-lantern logo<br>🦃 **Thanksgiving**: warm cream and maple with falling leaves, and an acorn cap on the logo<br>🎄 **Christmas**: snowy white with red and evergreen, snowflakes, a candy-cane stripe, and a Santa hat on the logo<br>The theme is per phone. |
 | **Family** | Share key, people, joining and leaving. See [Accounts and families](accounts-and-families.md). |
 | **Weights** | Every weight, to review, edit, or delete, plus the form to add one |
 | **Learning center** | High-contrast cards to show your baby. See [Learning center](#learning-center). |
 | **Fun center** | Bottle Catch and its high scores. See [Fun center](#fun-center). |
-| **Achievements** | Ten badges with progress, like *Sunshine Streak* (7 days of Vitamin D) and *Diaper Pro* (7 days of diaper goals). A day that isn't over yet never breaks a streak. |
+| **Achievements** | Forty badges with progress, in seven groups: Feeds, Nursing, Bottle and pump, Diapers, Vitamin D, Baths, and Weight and milestones. Stars (★★, ★★★) mark higher tiers, like *Sunshine Streak* (7 days of Vitamin D), *Vitamin D Devotee* (14), and *Sunshine Superstar* (30). Others are one of a kind: *Night Owl* (10 feeds between midnight and 5am), *Perfect Day* (8+ feeds, both diaper goals, and Vitamin D), *Liquid Gold* (5 liters pumped), *Back to Birth Weight*, *Two Weeks Old*, and *One Month Old*. A day that isn't over yet never breaks a streak. |
 | **Settings** | Baby's name, birth date, birth weight and units, Vitamin D start date, feed interval, alarm, and goals |
 | **💾 Data management** | Everything that backs up, restores, or clears data, in one place (see below) |
 | **Guide / About** | In-app help, version, and changelog |

diff --git a/CHANGELOG.md b/CHANGELOG.md
@@ -1,5 +1,46 @@
 # Changelog
 
+## v1.15
+
+**40 achievements** (up from 10)
+- Grouped into Feeds, Nursing, Bottle and pump, Diapers, Vitamin D, Baths, and Weight and milestones, each with an earned count
+- Higher tiers of the originals, marked ★★ or ★★★:
+  - Fortnight Strong (14 days) and Month of Feeds (30)
+  - Clockwork (8+ feeds on 20 days)
+  - Nursing Natural (50 sessions) and Switch Master (25 alternating starts)
+  - Bottle Boss (50) and Bottle Legend (150)
+  - Bigger Day (400 mL) and Biggest Day (500 mL)
+  - Pump Pro (50)
+  - Diaper Dynamo (14 days), Diaper Legend (30), and Diaper Master (14 in a row)
+  - Vitamin D Devotee (14 in a row) and Sunshine Superstar (30)
+  - Feed Machine (500 feeds) and One Thousand Feeds
+  - Bath Buddy (10 baths), Perfect Week, and One Month Old
+- New kinds:
+  - Century Club (100 feeds)
+  - Night Owl (10 feeds between midnight and 5am)
+  - Perfect Day (8+ feeds, both diaper goals, and Vitamin D when due)
+  - Note Taker (day notes on 5 days)
+  - Liquid Gold (5 liters pumped)
+  - Splish Splash (first bath)
+  - Weigh In (first weight) and Weighted Wonder (5 weighted feeds)
+  - Back to Birth Weight
+  - Two Weeks Old
+- Earned dates are worked out from the log, so badges you already qualified for show as earned right away
+
+**Themes window**
+- The profile menu has one **🎨 Themes** item, showing the current theme. It opens a window with Auto, Light, and Dark, and the four fun themes with a short description each.
+
+**Doctor report fixes** (checked against the log with separate code)
+- **Pumped** now averages over the days you pumped, and says how many ("365 mL/day on 8 days with pumping"). Before, days without pumping counted as zero, which made it look lower.
+- **Vitamin D** only counts days on or after the Vitamin D start date. Before, drops logged earlier could show "10 of 9 days".
+- **Days before the birth date** are left out of the table when the 14-day range reaches back that far
+- **Nursing** says how many nursing feeds were timed, when some weren't, since untimed feeds count as 0 minutes
+- The daily rows (feeds, nursing minutes, bottle, pump, wet, stool, Vitamin D, baths, longest gap) were already right
+
+**Dashboard fixes**
+- Pumped per day uses completed days, like the other averages
+- Vitamin D counts only days since the start date
+
 ## v1.14
 
 **Dashboard filters**
